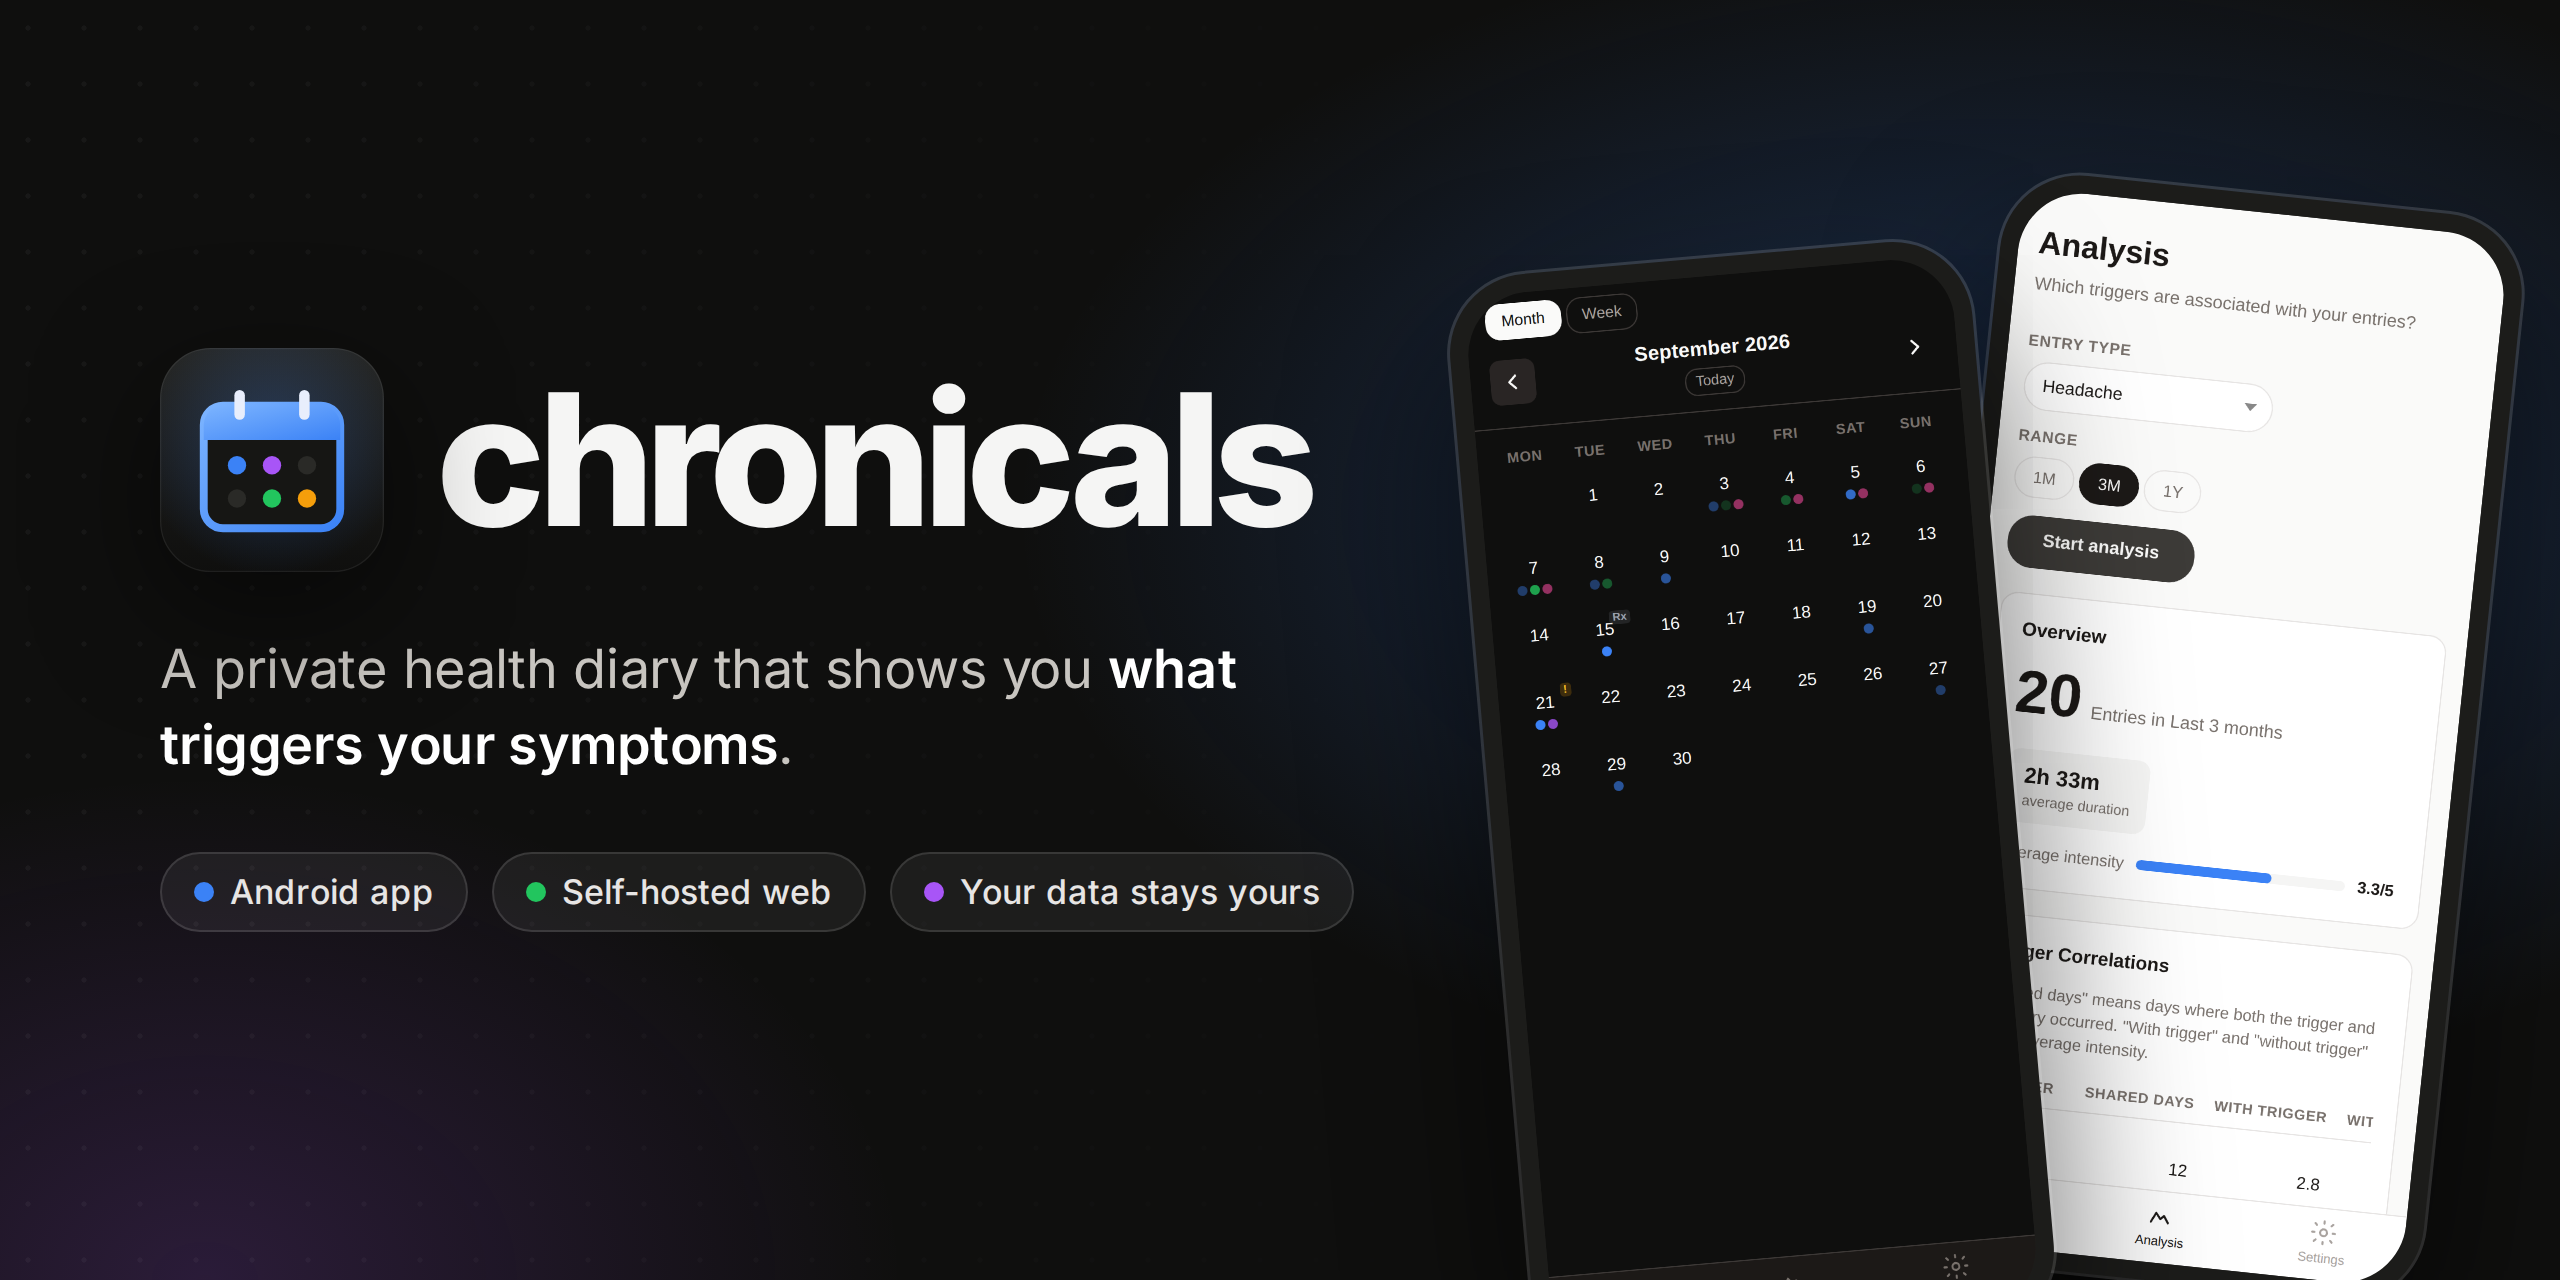
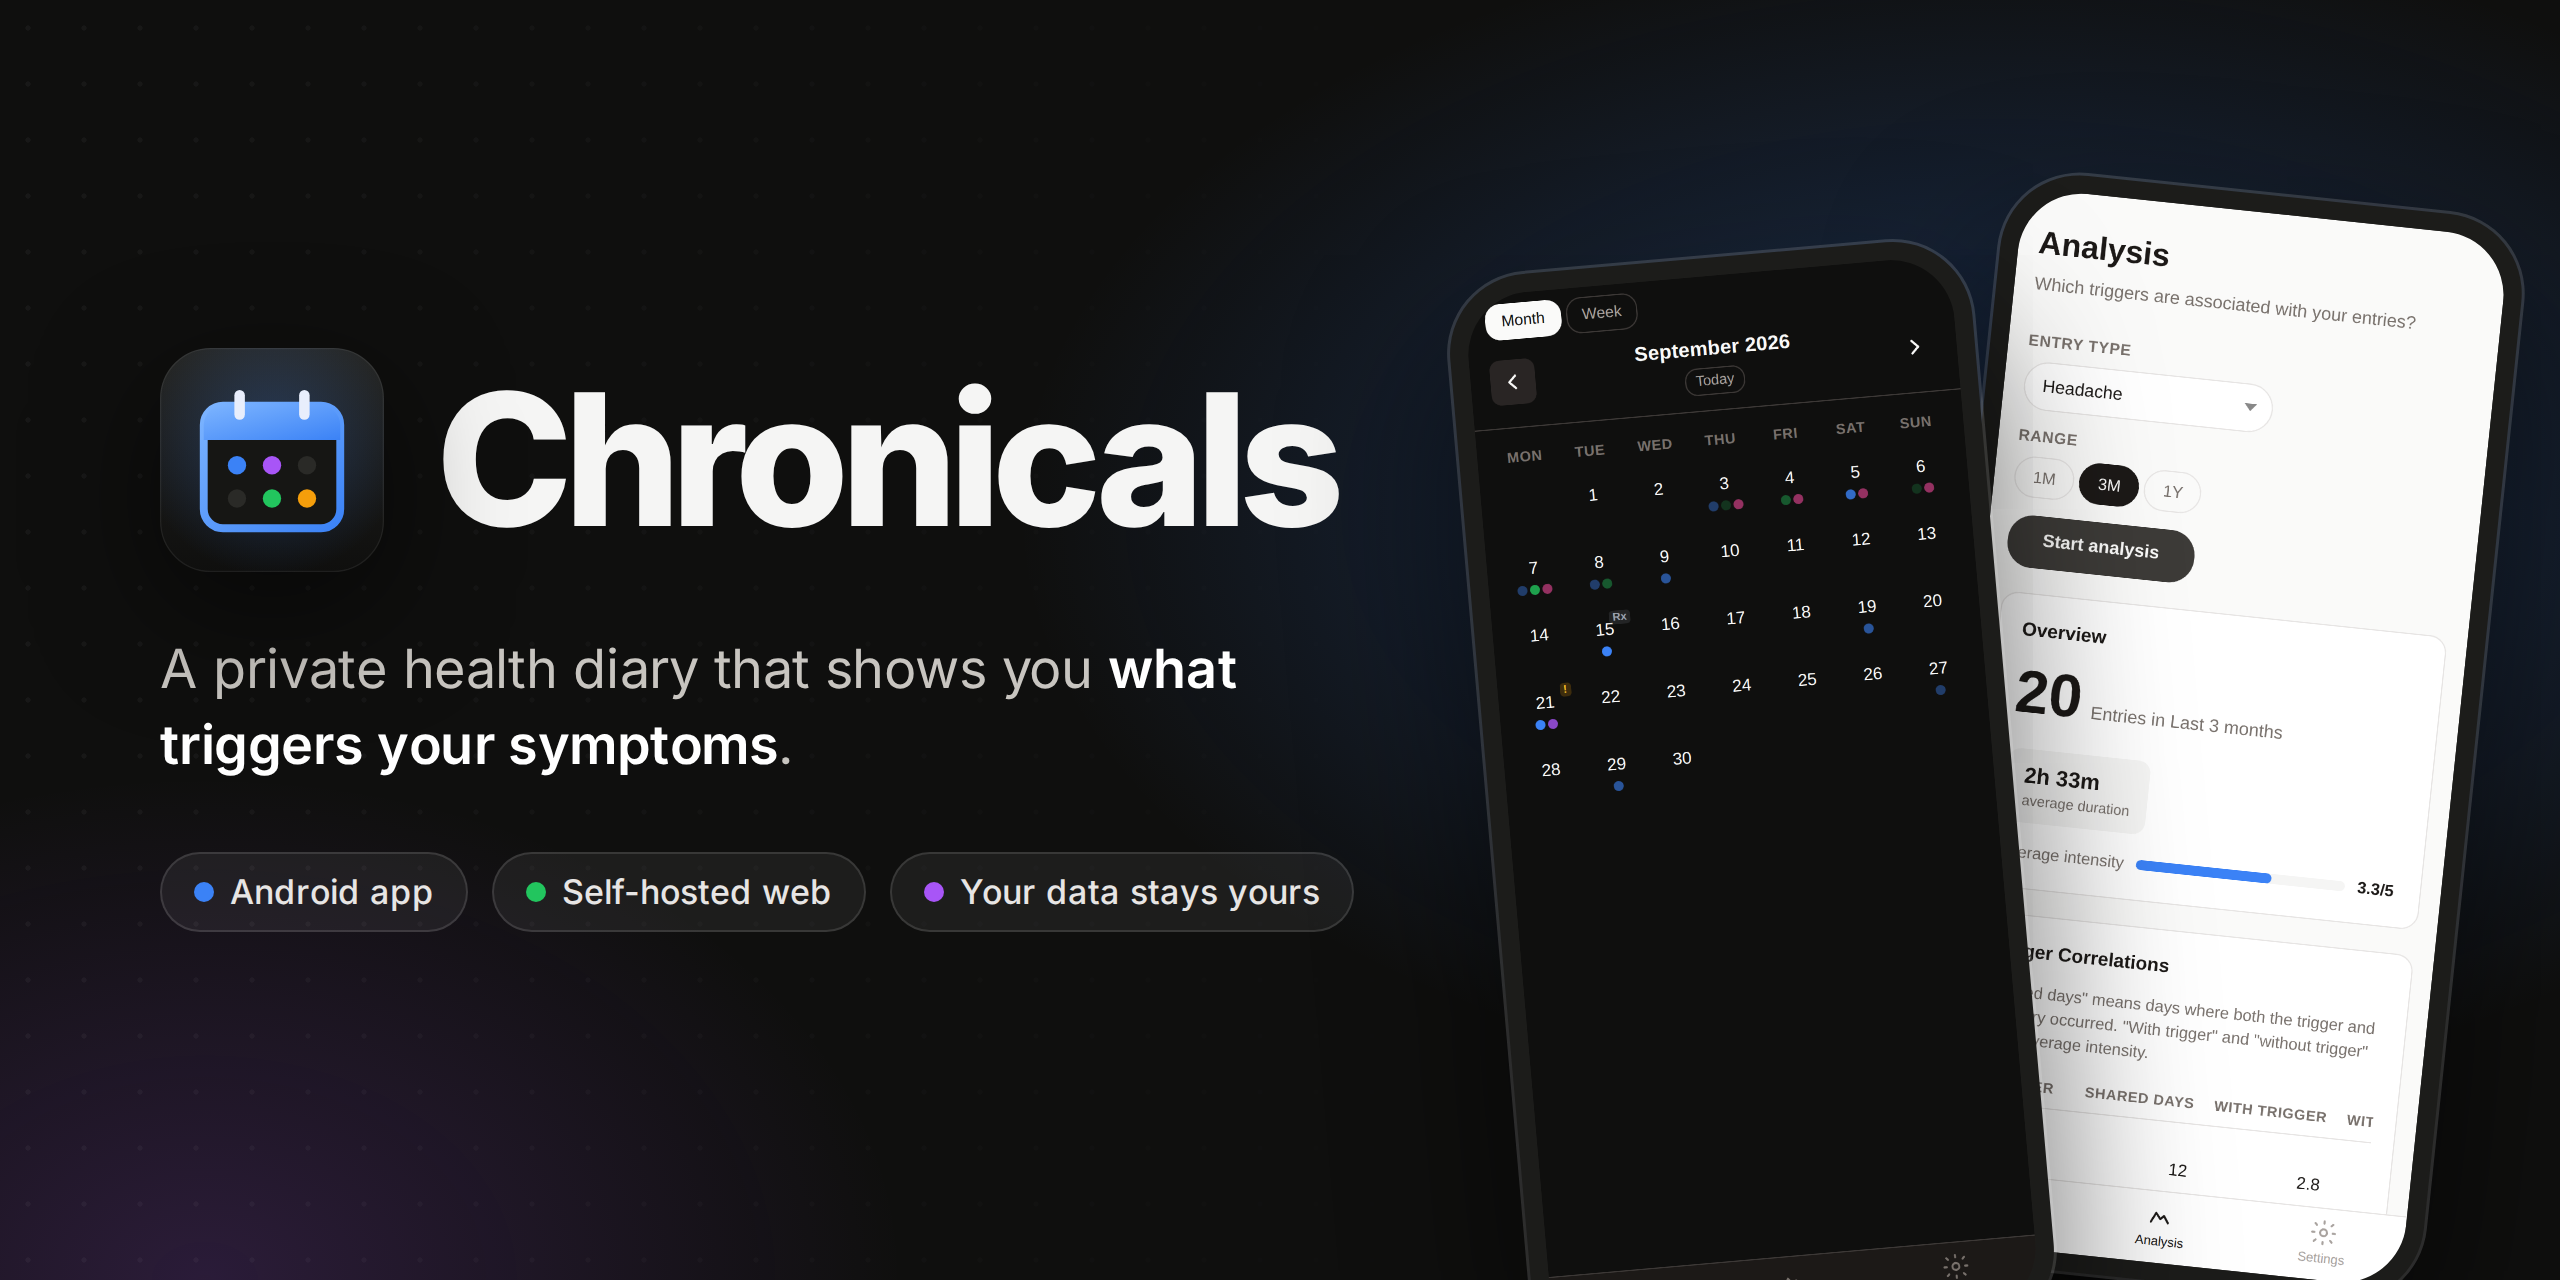
Rebrand display name back to Chronicals
User-facing name only: page title, PWA manifest, Android app label, README,
banner and release titles. Identifiers stay lowercase (package name, app id
io.github.stub1t.chronicals, database and APK file names).

Changed region(s): [[0.1562, 0.2812, 0.5312, 0.4375]]

diff --git a/docs/assets/src/banner.html b/docs/assets/src/banner.html
@@ -34,7 +34,7 @@
 <body>
   <div class="dots"></div>
   <div class="copy">
-    <div class="brand"><img src="../icon.svg" alt=""><h1>chronicals</h1></div>
+    <div class="brand"><img src="../icon.svg" alt=""><h1>Chronicals</h1></div>
     <p>A private health diary that shows you <b>what triggers your symptoms</b>.</p>
     <div class="pills">
       <span class="pill"><i style="background:#3b82f6"></i>Android app</span>

diff --git a/src/lib/api.ts b/src/lib/api.ts
@@ -1,7 +1,7 @@
 import { error } from '@sveltejs/kit';
 
 /**
- * Call the chronicals API. On the web this is a plain `fetch` to the server;
+ * Call the Chronicals API. On the web this is a plain `fetch` to the server;
  * in the Android app (`__NATIVE_APP__`) the request is answered in-process by
  * the on-device database, so there is no network hop and no server.
  *

diff --git a/vite.config.ts b/vite.config.ts
@@ -20,8 +20,8 @@ export default defineConfig({
 				filename: 'service-worker.ts',
 				registerType: 'autoUpdate',
 				manifest: {
-					name: 'chronicals',
-					short_name: 'chronicals',
+					name: 'Chronicals',
+					short_name: 'Chronicals',
 					description: 'Personal health diary & calendar',
 					theme_color: '#0f0f0e',
 					background_color: '#0f0f0e',

diff --git a/src/app.html b/src/app.html
@@ -9,7 +9,7 @@
 		<meta name="theme-color" content="#0f0f0e" />
 		<meta name="apple-mobile-web-app-capable" content="yes" />
 		<meta name="apple-mobile-web-app-status-bar-style" content="black-translucent" />
-		<title>chronicals</title>
+		<title>Chronicals</title>
 		%sveltekit.head%
 	</head>
 	<body data-sveltekit-preload-data="hover">

diff --git a/capacitor.config.ts b/capacitor.config.ts
@@ -2,7 +2,7 @@ import type { CapacitorConfig } from '@capacitor/cli';
 
 const config: CapacitorConfig = {
 	appId: 'io.github.stub1t.chronicals',
-	appName: 'chronicals',
+	appName: 'Chronicals',
 	webDir: 'build-mobile',
 	backgroundColor: '#0f0f0e',
 	plugins: {

diff --git a/README.md b/README.md
@@ -1,5 +1,5 @@
 <p align="center">
-  <img src="docs/assets/banner.png" alt="chronicals — a private health diary that shows you what triggers your symptoms" width="100%">
+  <img src="docs/assets/banner.png" alt="Chronicals — a private health diary that shows you what triggers your symptoms" width="100%">
 </p>
 
 <p align="center">
@@ -9,7 +9,7 @@
   <img src="https://img.shields.io/badge/data-SQLite%2C%20on%20your%20device-a855f7?logo=sqlite&logoColor=white" alt="SQLite">
 </p>
 
-**chronicals** is a calendar-based health diary. Log headaches, stomach aches, allergies, hypos, periods and medication changes, along with the things that may have caused them: sleep, stress, food, weather. chronicals then shows you which of those actually line up with your symptoms.
+**Chronicals** is a calendar-based health diary. Log headaches, stomach aches, allergies, hypos, periods and medication changes, along with the things that may have caused them: sleep, stress, food, weather. Chronicals then shows you which of those actually line up with your symptoms.
 
 It runs in two ways, both from this repository:
 

diff --git a/AGENTS.md b/AGENTS.md
@@ -6,7 +6,7 @@ This file provides guidance to coding agents when working with code in this repo
 
 ## Project
 
-**chronicals** — Self-hosted personal health diary with a calendar UI. Logs symptoms (headache, stomachache, allergy, hypo, medication changes) with start/stop times, auto-fetches weather/pollen/pressure from Open-Meteo, and surfaces correlations in an Analysis tab.
+**Chronicals** — Self-hosted personal health diary with a calendar UI. Logs symptoms (headache, stomachache, allergy, hypo, medication changes) with start/stop times, auto-fetches weather/pollen/pressure from Open-Meteo, and surfaces correlations in an Analysis tab.
 
 Ships two ways from one codebase: the self-hosted web app (Docker) and a standalone Android app (Capacitor) that keeps all data on the phone, with no server.
 
